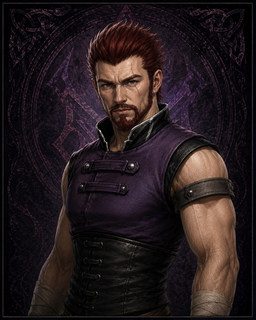
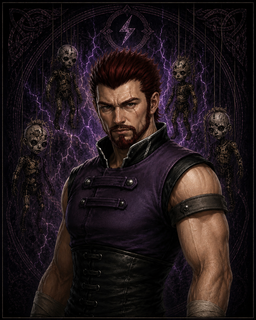
Update Kanzas portrait; give Doel dual swords
- Swap in the new Kanzas portrait (canon puppets background).
- Add a 'dualsword' weapon kind: a sword in each hand (swing strike). Doel now
  wields two swords, matching his art, while staying in the Thunder class.

diff --git a/src/entities/humanoid.ts b/src/entities/humanoid.ts
@@ -39,6 +39,7 @@ const STRIKE_STYLE: Record<WeaponKind, StrikeStyle> = {
   spear: "thrust",
   fist: "thrust",
   bow: "draw",
+  dualsword: "swing",
 };
 
 /**
@@ -154,13 +155,20 @@ export class Humanoid {
 
     // The bow is held in the off (left) hand and drawn with the right; every other
     // weapon is wielded in the right hand. Attach it at the hand (bottom of the arm).
+    const dual = weapon === "dualsword";
     const wieldArm = weapon === "bow" ? this.leftArm : this.rightArm;
     this.strikeArm = this.rightArm;
     if (weapon === "bow") this.bowArm = this.leftArm;
-    const weaponNode = buildWeapon(weapon, main, scene, opts.weaponVariant);
+    // Dual-wield builds a sword per hand (sword geometry); everything else is single-handed.
+    const weaponNode = buildWeapon(dual ? "sword" : weapon, main, scene, opts.weaponVariant);
     weaponNode.position = new Vector3(0, -0.58, 0.06); // hand, just forward
     weaponNode.parent = wieldArm;
     this.weaponNode = weaponNode;
+    if (dual) {
+      const offHand = buildWeapon("sword", main, scene);
+      offHand.position = new Vector3(0, -0.58, 0.06);
+      offHand.parent = this.leftArm;
+    }
 
     if (opts.outfit === "dancer") this.addDancerOutfit(scene, opts.color);
     else if (opts.outfit === "archer") this.addArcherOutfit(scene);

diff --git a/src/data/bearers.ts b/src/data/bearers.ts
@@ -18,7 +18,7 @@ import doelPortrait from "../assets/portraits/doel.png";
 import { type DragoonClassId, isClassImplemented } from "./dragoonClasses";
 
 /** Weapon silhouette held by the placeholder figure (and the strike motion it uses). */
-export type WeaponKind = "sword" | "spear" | "bow" | "rapier" | "fist" | "hammer" | "axe";
+export type WeaponKind = "sword" | "spear" | "bow" | "rapier" | "fist" | "hammer" | "axe" | "dualsword";
 
 /** Optional weapon variant overlaid on a {@link WeaponKind} for a signature silhouette. */
 export type WeaponVariant = "spiked";
@@ -131,7 +131,7 @@ export const BEARERS: Bearer[] = [
   { id: "miranda", name: "Miranda", classId: "whiteSilver", weapon: "bow", hair: "flow", outfit: "valkyrie", color: C_LIGHT, storyPlayable: true },
   // Violet (Thunder) — martial artist (fists)
   { id: "kanzas", name: "Kanzas", classId: "thunder", portrait: kanzasPortrait, weapon: "fist", hair: "firebrand", outfit: "enforcer", color: C_THUNDER, storyPlayable: false },
-  { id: "doel", name: "Doel", classId: "thunder", portrait: doelPortrait, weapon: "fist", hair: "imperial", outfit: "warlord", color: C_THUNDER, bodyColor: [0.16, 0.14, 0.2], storyPlayable: false },
+  { id: "doel", name: "Doel", classId: "thunder", portrait: doelPortrait, weapon: "dualsword", hair: "imperial", outfit: "warlord", color: C_THUNDER, bodyColor: [0.16, 0.14, 0.2], storyPlayable: false },
   { id: "haschel", name: "Haschel", classId: "thunder", portrait: haschelPortrait, weapon: "fist", hair: "elder", outfit: "martialist", color: C_THUNDER, storyPlayable: true },
   // Blue-Sea (Water) — hammer
   { id: "damia", name: "Damia", classId: "blueSea", portrait: damiaPortrait, dragoonPortrait: damiaDragoonPortrait, weapon: "hammer", hair: "siren", outfit: "siren", color: C_WATER, skinTone: [0.56, 0.76, 0.86], storyPlayable: false },